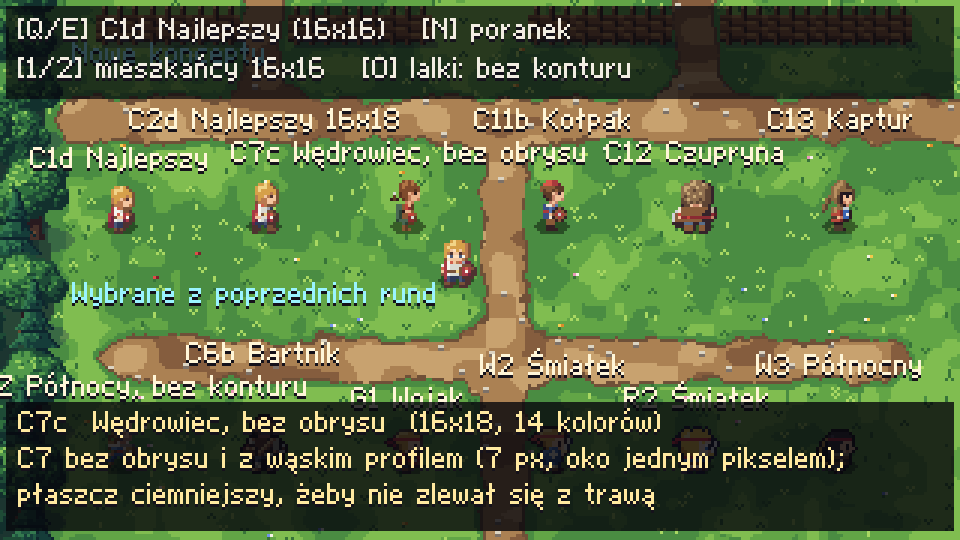
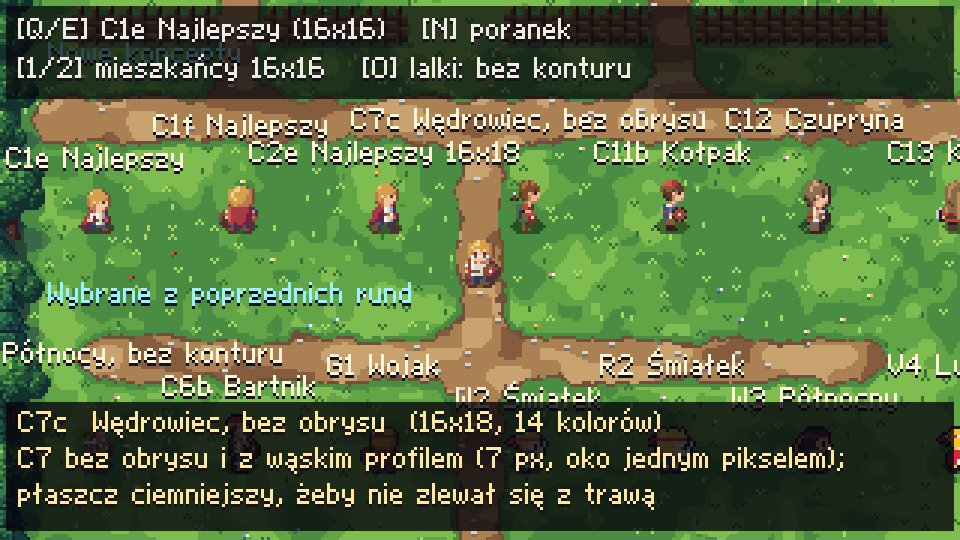
Redraw C1's and C2's profile two ways
The art lead found the side of C1d and C2d still weak. At 20x the causes were:
C1's skin shadow is the brown of its hair, so a shaded jaw and neck read as a
beard; the hair's flat top read as a helmet; there was no neck; and the
edge-on shield with the arm made a dark post down the front.

- C1e, C2e: the profile drawn again: a rounded skull with the fringe forward,
  a neck set back behind the chin, the face shaded only with light skin, the
  cloak over the back half and the shirt in front, the shield a small disc at
  the hip, a longer scissoring stride
- C1f: an independent redraw by a second artist pass: very slim, the cloak a
  strip behind, the shield hidden behind the body, a wide stride
- C1d and C2d go to the archive; a board row now holds seven heroes

diff --git a/src/art/concepts/najlepszy-e.concept.ts b/src/art/concepts/najlepszy-e.concept.ts
@@ -1,0 +1,127 @@
+// C1e: C1 with its profile drawn again from nothing (16 x 16).
+//
+// The art lead found the side of C1d still weak. What was wrong with it, seen at 20x: the head had a flat,
+// square top with a big light patch, so it read as a helmet; it sat straight on the shirt with no neck; the
+// shield seen edge-on and the arm in front of it made a dark brown post down the front of the body, the
+// loudest thing in the picture; the legs were short and stiff.
+// Here: a rounded skull, the crown lit from the upper left, the fringe sweeping forward over the brow, hair
+// down to the nape; a short neck set back behind the chin; the chest a pixel ahead of the belly; the cloak
+// hanging off the back and opening at the hem; the shield only as a small red disc at his hip, held by the
+// far arm; the near arm swinging over the body; a longer, scissoring stride. The face as before: flat, no
+// nose, the eye a single dark pixel under the fringe. The face and the neck in profile are shaded only by
+// the light skin and the rim: C1's skin shadow is the brown of its hair, and on a jaw it read as a beard.
+// Front and back are C1's.
+
+import type { Concept, Frames } from './concept.ts';
+import { HEAD_D, HEAD_U, LINE, PAL, SHIELD_D, SHIELD_U } from './najlepszy.concept.ts';
+
+const H = 16;
+
+function stack(...parts: [number, string[]][]): string[] {
+  const grid = Array.from({ length: H }, () => Array<string>(16).fill('.'));
+  for (const [dy, rows] of parts)
+    rows.forEach((r, y) => {
+      const ty = y + dy;
+      if (ty >= 0 && ty < H) [...r].forEach((ch, x) => ch !== '.' && (grid[ty][x] = ch));
+    });
+  return grid.map((r) => r.join(''));
+}
+
+// ------------------------------------------------------------------ facing us and from behind (C1's)
+
+const TRUNK_D = [
+  '....RbrsSrAC....',
+  '...bRbaaaaACA...',
+  '...rRbaaaaACR...',
+  '...sRkkklkkCS...',
+  '....RbaaaaAC....',
+];
+const ARM_FWD_D = ['...b............', '...r............', '...s............'];
+const ARM_BACK_D = ['...b............', '...b............', '...r............', '...R............'];
+const LEGS_D = {
+  stand: ['....RpP..pPC....', '.....pP..pP.....', '....kkK..kkK....'],
+  a: ['....RpP..pPC....', '.....pP..kkK....', '....kkK.........'],
+  b: ['....RpP..pPC....', '....kkK..pP.....', '.........kkK....'],
+};
+const TRUNK_U = [
+  '....rRRRRRRC....',
+  '...arRRRRRRCA...',
+  '...rrRRRRRCCR...',
+  '...srRRRRRCCS...',
+  '....rRRRRRCC....',
+  '....RRCRRCCC....',
+];
+const LEGS_U = {
+  stand: ['.....pP..pP.....', '.....pP..pP.....', '....kkK..kkK....'],
+  a: ['.....pP..pP.....', '.....pP..kkK....', '....kkK.........'],
+  b: ['.....pP..pP.....', '....kkK..pP.....', '.........kkK....'],
+};
+
+// ------------------------------------------------------------------ from the side, facing right
+
+/** a rounded skull, the fringe swept forward, the ear between hair, the chin set back from the face */
+export const HEAD_S = [
+  '.......hhh......',
+  '......lhhhh.....',
+  '.....hhhhhhh....',
+  '.....HhhhhhH....',
+  '.....HhshsKs....',
+  '.....HhHssss....',
+  '......HHsss.....',
+]
+/** neck and collar; the cloak covers the back half of him, the shirt shows only in front */
+export const TRUNK_S = [
+  '......Rrssr.....',
+  '.....RRRbaA.....',
+  '....RRRCbaA.....',
+  '....RRCCklK.....',
+  '...RRCC.baA.....',
+];
+/** the near arm: hangs, swings forward, swings back */
+export const ARM_S = {
+  stand: ['.......ba.......', '.......rb.......', '.......ss.......'],
+  fwd: ['........ba......', '........rb......', '.........ss.....'],
+  back: ['......ba........', '.....rb.........', '.....ss.........'],
+};
+/** the shield on the far arm: a small red disc at his hip, mostly behind him */
+export const SHIELD_S = ['..........kR....', '.........kRr....', '.........kRK....', '..........K.....'];
+/** the legs, from the hem: standing; near leg forward; far leg forward */
+export const LEGS_S = {
+  stand: ['...CC..pP.......', '.......pP.......', '......kkKk......'],
+  near: ['...CC.PppP......', '.....PP..pp.....', '....KK....kkK...'],
+  far: ['...CC.pPPp......', '.....pp..PP.....', '....kk....KKK...'],
+};
+
+// ------------------------------------------------------------------ the frames
+
+const down: Frames = [
+  stack([0, HEAD_D], [7, TRUNK_D], [12, LEGS_D.stand], [8, SHIELD_D]),
+  stack([12, LEGS_D.a], [1, HEAD_D], [8, TRUNK_D], [8, ARM_FWD_D], [9, SHIELD_D]),
+  stack([12, LEGS_D.b], [1, HEAD_D], [8, TRUNK_D], [8, ARM_BACK_D], [9, SHIELD_D]),
+];
+const up: Frames = [
+  stack([8, SHIELD_U], [12, LEGS_U.stand], [0, HEAD_U], [7, TRUNK_U]),
+  stack([9, SHIELD_U], [12, LEGS_U.a], [1, HEAD_U], [8, TRUNK_U]),
+  stack([9, SHIELD_U], [12, LEGS_U.b], [1, HEAD_U], [8, TRUNK_U]),
+];
+const side: Frames = [
+  stack([9, SHIELD_S], [12, LEGS_S.stand], [7, TRUNK_S], [8, ARM_S.stand], [0, HEAD_S]),
+  stack([10, SHIELD_S], [12, LEGS_S.near], [8, TRUNK_S], [9, ARM_S.back], [1, HEAD_S]),
+  stack([10, SHIELD_S], [12, LEGS_S.far], [8, TRUNK_S], [9, ARM_S.fwd], [1, HEAD_S]),
+];
+
+export const CONCEPT: Concept = {
+  code: 'C1e',
+  id: 'najlepszy-e',
+  name: { pl: 'Najlepszy', en: 'Best of' },
+  note: {
+    pl: "C1 z profilem narysowanym od nowa: okrągła czaszka, grzywka do przodu, szyja, płaszcz z tyłu, tarcza przy biodrze, dłuższy krok",
+    en: "C1 with its profile redrawn: a rounded skull, the fringe forward, a neck, the cloak behind, the shield at the hip, a longer stride",
+  },
+  h: H,
+  pal: PAL,
+  frames: { down, up, side },
+  ink: 'rim',
+  outline: 0x2f3858,
+  line: LINE,
+};

diff --git a/src/art/concepts/najlepszy-wysoki-e.concept.ts b/src/art/concepts/najlepszy-wysoki-e.concept.ts
@@ -1,0 +1,113 @@
+// C2e: the same lad as C1e, between one tile and C2: 16 x 18, with C1e's redrawn profile: a rounded skull,
+// a neck, the cloak over the back half, the shield a small disc at the hip, a longer stride.
+//
+// The art lead asked for C2 lower (between C1 and C2) and, like C1, slimmer from the side. So: C1's head,
+// a trunk one row longer than C1's (the shirt reaches below the belt), legs one row longer, the cloak to
+// the back of the knees; and C1b's slim profile.
+
+import type { Concept, Frames } from './concept.ts';
+import { HEAD_D, HEAD_U, LINE, PAL, SHIELD_D, SHIELD_U } from './najlepszy.concept.ts';
+import { HEAD_S, SHIELD_S } from './najlepszy-e.concept.ts';
+
+const H = 18;
+
+function stack(...parts: [number, string[]][]): string[] {
+  const grid = Array.from({ length: H }, () => Array<string>(16).fill('.'));
+  for (const [dy, rows] of parts)
+    rows.forEach((r, y) => {
+      const ty = y + dy;
+      if (ty >= 0 && ty < H) [...r].forEach((ch, x) => ch !== '.' && (grid[ty][x] = ch));
+    });
+  return grid.map((r) => r.join(''));
+}
+
+// ------------------------------------------------------------------ facing us
+
+const TRUNK_D = [
+  '....RbrsSrAC....',
+  '...bRbaaaaACA...',
+  '...rRbaaaaACR...',
+  '...sRkkklkkCS...',
+  '....RbaaaaAC....',
+  '....RbaaaAAC....',
+];
+const ARM_FWD_D = ['...b............', '...r............', '...s............'];
+const ARM_BACK_D = ['...b............', '...b............', '...r............', '...R............'];
+const LEGS_D = {
+  stand: ['....RpP..pPC....', '.....pP..pP.....', '.....kK..kK.....', '....kkK..kkK....'],
+  a: ['....RpP..pPC....', '.....pP..pP.....', '.....kK..kkK....', '....kkK.........'],
+  b: ['....RpP..pPC....', '.....pP..pP.....', '....kkK..kK.....', '.........kkK....'],
+};
+
+// ------------------------------------------------------------------ from behind
+
+const TRUNK_U = [
+  '....rRRRRRRC....',
+  '...arRRRRRRCA...',
+  '...rrRRRRRCCR...',
+  '...srRRRRRCCS...',
+  '....rRRRRRCC....',
+  '....rRRRRCCC....',
+  '....rRCRRCCC....',
+];
+const LEGS_U = {
+  stand: ['.....pP..pP.....', '.....pP..pP.....', '.....kK..kK.....', '....kkK..kkK....'],
+  a: ['.....pP..pP.....', '.....pP..pP.....', '.....kK..kkK....', '....kkK.........'],
+  b: ['.....pP..pP.....', '.....pP..pP.....', '....kkK..kK.....', '.........kkK....'],
+};
+
+// ------------------------------------------------------------------ from the side, facing right: slim
+
+/** neck and collar; the cloak covers the back half, the shirt shows in front and below the belt */
+const TRUNK_S = [
+  '......Rrssr.....',
+  '.....RRRbaA.....',
+  '....RRRCbaA.....',
+  '....RRCCklK.....',
+  '....RRCCbaA.....',
+  '...RRCC.baA.....',
+];
+const ARM_S = {
+  stand: ['.......ba.......', '.......ba.......', '.......rb.......', '.......ss.......'],
+  fwd: ['........ba......', '........ba......', '.........rb.....', '.........ss.....'],
+  back: ['......ba........', '......ba........', '.....rb.........', '.....ss.........'],
+};
+const LEGS_S = {
+  stand: ['...CC..pP.......', '.......pP.......', '.......kK.......', '......kkKk......'],
+  near: ['...CC.PppP......', '.....PP..pp.....', '....KK....kk....', '....KK....kkK...'],
+  far: ['...CC.pPPp......', '.....pp..PP.....', '....kk....KK....', '....kk....KKK...'],
+};
+
+// ------------------------------------------------------------------ the frames
+
+const down: Frames = [
+  stack([0, HEAD_D], [7, TRUNK_D], [13, LEGS_D.stand], [9, SHIELD_D]),
+  stack([13, LEGS_D.a], [1, HEAD_D], [8, TRUNK_D], [9, ARM_FWD_D], [10, SHIELD_D]),
+  stack([13, LEGS_D.b], [1, HEAD_D], [8, TRUNK_D], [9, ARM_BACK_D], [10, SHIELD_D]),
+];
+const up: Frames = [
+  stack([9, SHIELD_U], [13, LEGS_U.stand], [0, HEAD_U], [7, TRUNK_U]),
+  stack([10, SHIELD_U], [13, LEGS_U.a], [1, HEAD_U], [8, TRUNK_U]),
+  stack([10, SHIELD_U], [13, LEGS_U.b], [1, HEAD_U], [8, TRUNK_U]),
+];
+const side: Frames = [
+  stack([10, SHIELD_S], [13, LEGS_S.stand], [7, TRUNK_S], [8, ARM_S.stand], [0, HEAD_S]),
+  stack([11, SHIELD_S], [13, LEGS_S.near], [8, TRUNK_S], [9, ARM_S.back], [1, HEAD_S]),
+  stack([11, SHIELD_S], [13, LEGS_S.far], [8, TRUNK_S], [9, ARM_S.fwd], [1, HEAD_S]),
+];
+
+export const CONCEPT: Concept = {
+  code: 'C2e',
+  id: 'najlepszy-wysoki-e',
+  name: { pl: 'Najlepszy 16x18', en: 'Best of 16x18' },
+  note: {
+    pl: "między C1 a C2 (16x18), z profilem C1e: okrągła czaszka, szyja, płaszcz z tyłu, tarcza przy biodrze",
+    en: "between C1 and C2 (16x18), with C1e's profile: a rounded skull, a neck, the cloak behind, the shield at the hip",
+  },
+  h: H,
+  pal: PAL,
+  frames: { down, up, side },
+  ink: 'rim',
+  outline: 0x2f3858,
+  line: LINE,
+};

diff --git a/src/art/concepts/najlepszy-f.concept.ts b/src/art/concepts/najlepszy-f.concept.ts
@@ -1,0 +1,71 @@
+import type { Concept, Frames } from './concept.ts';
+import { CONCEPT as C1 } from './najlepszy.concept.ts';
+
+const side: Frames = [
+  [
+    '......hlhh......',
+    '......llhhh.....',
+    '.....hllhhhh....',
+    '.....hlhhhhH....',
+    '.....hhhhsKs....',
+    '......Hhtsss....',
+    '.....H..sss.....',
+    '.....rRbbbr.....',
+    '.....rRabAa.....',
+    '.....RCarRA.....',
+    '.....RCkskl.....',
+    '.....RCaaaA.....',
+    '.....RC.pP......',
+    '.......PpP......',
+    '.......KkkK.....',
+    '................',
+  ],
+  [
+    '................',
+    '......hlhh......',
+    '......llhhh.....',
+    '.....hllhhhh....',
+    '.....hlhhhhH....',
+    '.....hhhhsKs....',
+    '......Hhtsss....',
+    '.....H..sss.....',
+    '.....rRbbbr.....',
+    '....rRbaaAa.....',
+    '....RrCkkkl.....',
+    '...rsRCaaaA.....',
+    '...RC..Pppp.....',
+    '.....PP...pp....',
+    '....KK....kkk...',
+    '................',
+  ],
+  [
+    '................',
+    '......hlhh......',
+    '......llhhh.....',
+    '.....hllhhhh....',
+    '.....hlhhhhH....',
+    '.....hhhhsKs....',
+    '......Hhtsss....',
+    '.....H..sss.....',
+    '.....rRbbbr.....',
+    '.....rRaabA.....',
+    '....rRCkkkbrs...',
+    '....RCCaaaA.....',
+    '...RC..ppPP.....',
+    '.....pp...PP....',
+    '....kk....KKK...',
+    '................',
+  ],
+];
+
+export const CONCEPT: Concept = {
+  ...C1,
+  code: 'C1f',
+  id: 'najlepszy-f',
+  name: { pl: 'Najlepszy', en: 'Best of' },
+  note: {
+    pl: 'C1 z profilem od nowa: wąski, głowa 7 px z grzywką i szyją, płaszcz z tyłu, tarcza za nim, długi krok',
+    en: 'C1 with its profile redrawn: slim, a 7 px head with a fringe and a neck, the cloak behind, the shield hidden, a long stride',
+  },
+  frames: { ...C1.frames, side },
+};

diff --git a/src/scenes/PlaygroundScene.ts b/src/scenes/PlaygroundScene.ts
@@ -80,9 +80,9 @@ const INKS: { id: Ink; name: Bilingual }[] = [
 
 const VIEW_ROW: Record<View, number> = { down: RIG.DOWN, up: RIG.UP, side: RIG.SIDE };
 
-/** Where the exhibits stand, in tiles. Heroes fill rows in the order of lineup.txt, six to a row. */
+/** Where the exhibits stand, in tiles. Heroes fill rows in the order of lineup.txt, seven to a row. */
 const HERO_ROWS = [13, 18, 23, 28];
-const HERO_COLS = [2, 5, 8, 11, 14, 17];
+const HERO_COLS = [2, 5, 8, 11, 14, 17, 20];
 
 const FOLK_SPOTS: [number, number][] = [[3, 8], [7, 8], [12, 8], [16, 8]];
 const CLASS_SPOTS: Record<string, [number, number][]> = {

diff --git a/docs/PLAYGROUND.md b/docs/PLAYGROUND.md
@@ -22,7 +22,7 @@ W4   Łowca potworów: odpada
 
 - **Zdjąć coś z planszy**: przenieść jego linijkę pod `archive:` i odświeżyć stronę. Nic nie jest kasowane.
 - **Przywrócić**: przenieść linijkę z powrotem nad `archive:`.
-- **Zmienić kolejność**: przestawić linijki. Rząd mieści sześć postaci; dłuższa grupa przechodzi do następnego rzędu.
+- **Zmienić kolejność**: przestawić linijki. Rząd mieści siedem postaci; dłuższa grupa przechodzi do następnego rzędu.
 - Notatki za kodem plac pomija, więc można tam pisać werdykty („za duża głowa”, „odpada”).
 - Kod, którego plac nie zna, i bohater, którego nie ma w żadnej części, są wypisywane w konsoli przeglądarki.
 - Mieszkańców (N) i potworów (P) ten plik na razie nie dotyczy: stoją na swoich miejscach.
@@ -40,8 +40,9 @@ tarczę. Twoje decyzje i uwagi są w [DESIGN-DECISIONS.md](DESIGN-DECISIONS.md),
 
 | Kod | Koncept | Rozmiar | Na czym polega |
 |---|---|---|---|
-| **C1d** | Najlepszy | 16×16 | C1 (malowany jak S3, tony S2, oczy z powieką, białkiem i tęczówką) z **wąskim profilem**: głowa z boku ma 7 px (tyle co tułów z płaszczem), płaski tył, oko jednym ciemnym pikselem pod grzywką, bez nosa |
-| **C2d** | Najlepszy 16×18 | 16×18 | to samo, między C1 a C2 |
+| **C1e** | Najlepszy | 16×16 | C1 (malowany jak S3, tony S2, oczy z powieką, białkiem i tęczówką) z **bokiem narysowanym od nowa**: okrągła czaszka z grzywką do przodu, krótka szyja cofnięta za brodę, płaszcz zakrywa tylną połowę tułowia, biała koszula tylko z przodu, tarcza jako mały krążek przy biodrze, dłuższy krok. Twarz z boku cieniowana samą skórą: cień skóry C1 ma kolor cienia włosów i na szczęce wyglądał jak broda |
+| **C1f** | Najlepszy | 16×16 | druga, niezależna wersja boku C1 od innego grafika (przód i tył bez zmian) |
+| **C2e** | Najlepszy 16×18 | 16×18 | C1e w wysokości między C1 a C2 |
 | **C7c** | Wędrowiec, bez obrysu | 16×18 | C7 bez obrysu i z wąskim profilem; płaszcz ciemniejszy i chłodniejszy, żeby bez obrysu nie zlewał się z trawą |
 | **C11b** | Kołpak | 16×18 | C11 z wąskim profilem: czapka i głowa z boku 8 px zamiast 11 |
 | **C12** | Czupryna | 16×18 | **na wzorcu Moonlightera**: głowę robi postrzępiona, oświetlona pasmami czupryna, twarz osadzona nisko, ciało tak szerokie jak głowa, krótkie nogi; malowany jak C1, wąski profil; lniana koszula z haftem, kożuszany serdak, ciemnoczerwony pas, drewniana tarcza w okuciu |
@@ -55,8 +56,8 @@ Wszystkie mają trzy widoki, stanie i dwa kroki, i mieszczą się w 15 kolorach.
 - twarz to przednia dolna ćwiartka głowy, z płaskim przodem: bez nosa;
 - oko w profilu to jeden ciemny piksel pod cieniem grzywki, bez białka (białko w profilu robiło wytrzeszcz).
 
-Werdykty z poprzedniej rundy (w archiwum): C1c, C2c i C11 z boku jak jajka (poprawione w C1d, C2d, C11b), C7b do zwężenia
-i bez obrysu (C7c), C10 do wyrzucenia.
+Werdykty z poprzednich rund (w archiwum): C1c, C2c i C11 z boku jak jajka (poprawione w C1d, C2d, C11b), C7b do zwężenia
+i bez obrysu (C7c), C10 do wyrzucenia; C1d i C2d z boku nadal słabe (poprawione w C1e, C1f, C2e).
 
 Twoje obrazki wzorcowe leżą w `src/lab/reference/` (folder ignorowany przez git). Plac ich nie pokazuje: służą mi do nauki miar
 i rzemiosła; postaci z nich nie kopiuję.
